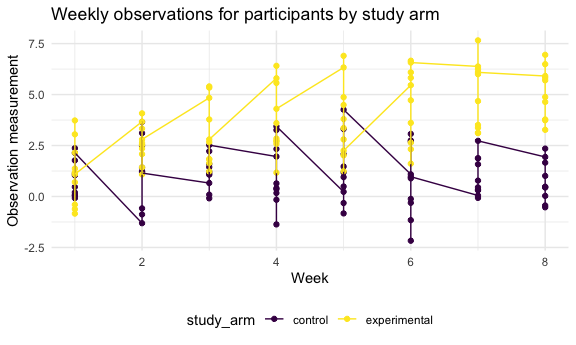
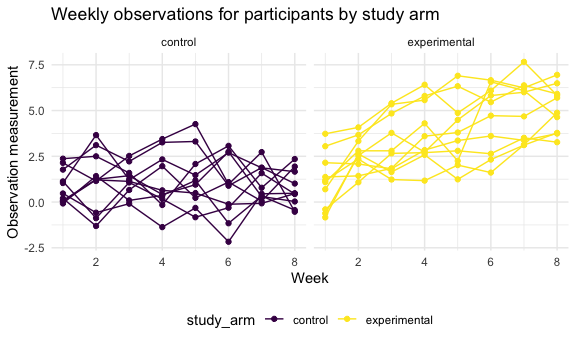
editing spaghetti plot

diff --git a/p8105_hw5_cc5423.md b/p8105_hw5_cc5423.md
@@ -152,9 +152,10 @@ Make a spaghetti plot showing observations on each subject over time:
 
 ``` r
 study_df |>
-  ggplot(aes(x = week, y = measurement, color = study_arm)) + 
+  ggplot(aes(x = week, y = measurement, group = id, color = study_arm)) + 
   geom_point() +
   geom_line() +
+  facet_grid(. ~ study_arm) +
   labs(
     title = "Weekly observations for participants by study arm",
     x = "Week",
